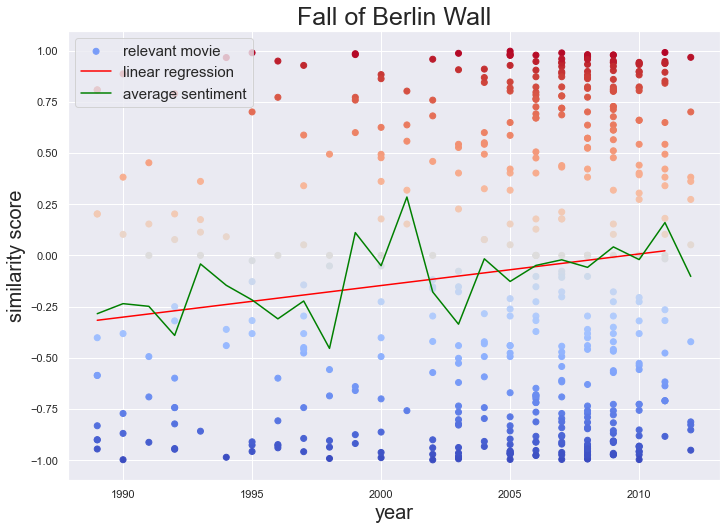
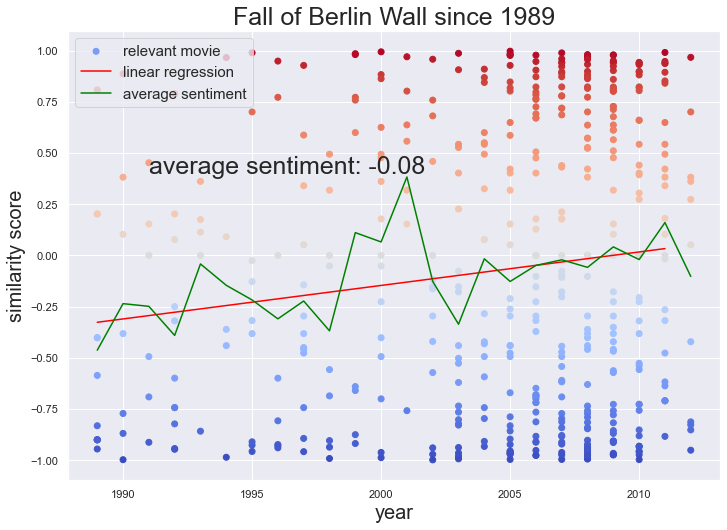
improving sentiment

diff --git a/index.md b/index.md
@@ -77,13 +77,14 @@ Part 2:
 ### Our perceptions of past events change as time goes on. New research and reflections might shine light on events previously considered negative. By doing a sentiment analysis on the plots, we can see how events and concepts are viewed differently over time. Here, we can see that globally movie plots have been generally negative, and becoming slightly more negative over time. 
 
 ### A closer look at a historical events or key words reveal how their representations change in movies. 
-<img src= './berlin_wall.png' width="49%" height="49%" />
-<img src= './berlin_fall.png' width="49%" height="49%"  />
+<img src= './Berlin_combined.png'/>
 
-### When we select movie plots most relevant to <a href="https://en.wikipedia.org/wiki/Berlin_Wall">Berlin Wall (General)</a> and <a href="https://en.wikipedia.org/wiki/Fall_of_the_Berlin_Wall">Fall of Berlin Wall</a>, we see a difference in the perception of the two events. Although both events are perceived more positively over time, _the Fall Of Berlin Wall_ has a more positive sentiment score and higher slope, corresponding to the more postive perception of the event. 
+### When we select movie plots most similar (similarity score > 0.8) to <a href="https://en.wikipedia.org/wiki/Berlin_Wall">Berlin Wall (General)</a> and <a href="https://en.wikipedia.org/wiki/Fall_of_the_Berlin_Wall">Fall of Berlin Wall</a>, we see that the two events are perceived differently. Although both events are perceived as negative, _the Fall Of Berlin Wall_ has a more positive sentiment score and a faster increasing slope, corresponding to the more postive perception of the event in Western cultures. 
+
+<img src= './three_wars.png' width="150%" height="150%"/>
+
+### Here we compare the sentiments towards two wars with many similar characteristics. Both the _Korean War_ and the _Vietnam War_ started in the 1950s, with the United States combatting overseas in Asia against communist forces. Both wars ended with unsatisfactory results from the U.S. perspective. The Korean War ended with an armistice, and the Vietnam war ended with a U.S. defeat. It's reasonable that the two wars exhibit similar negative sentiments. This particularly obvious when compared to the Falklands War between Argentina and the U.K. in the 1980s, which also had <a href="https://en.wikipedia.org/wiki/Cultural_impact_of_the_Falklands_War">a cultural impact. </a> 
 
 <br><br>
 
-## berlin wall
-## Nelson Mandela and Vietnam War 
 ## Apollo 11 and Apollo 13 
